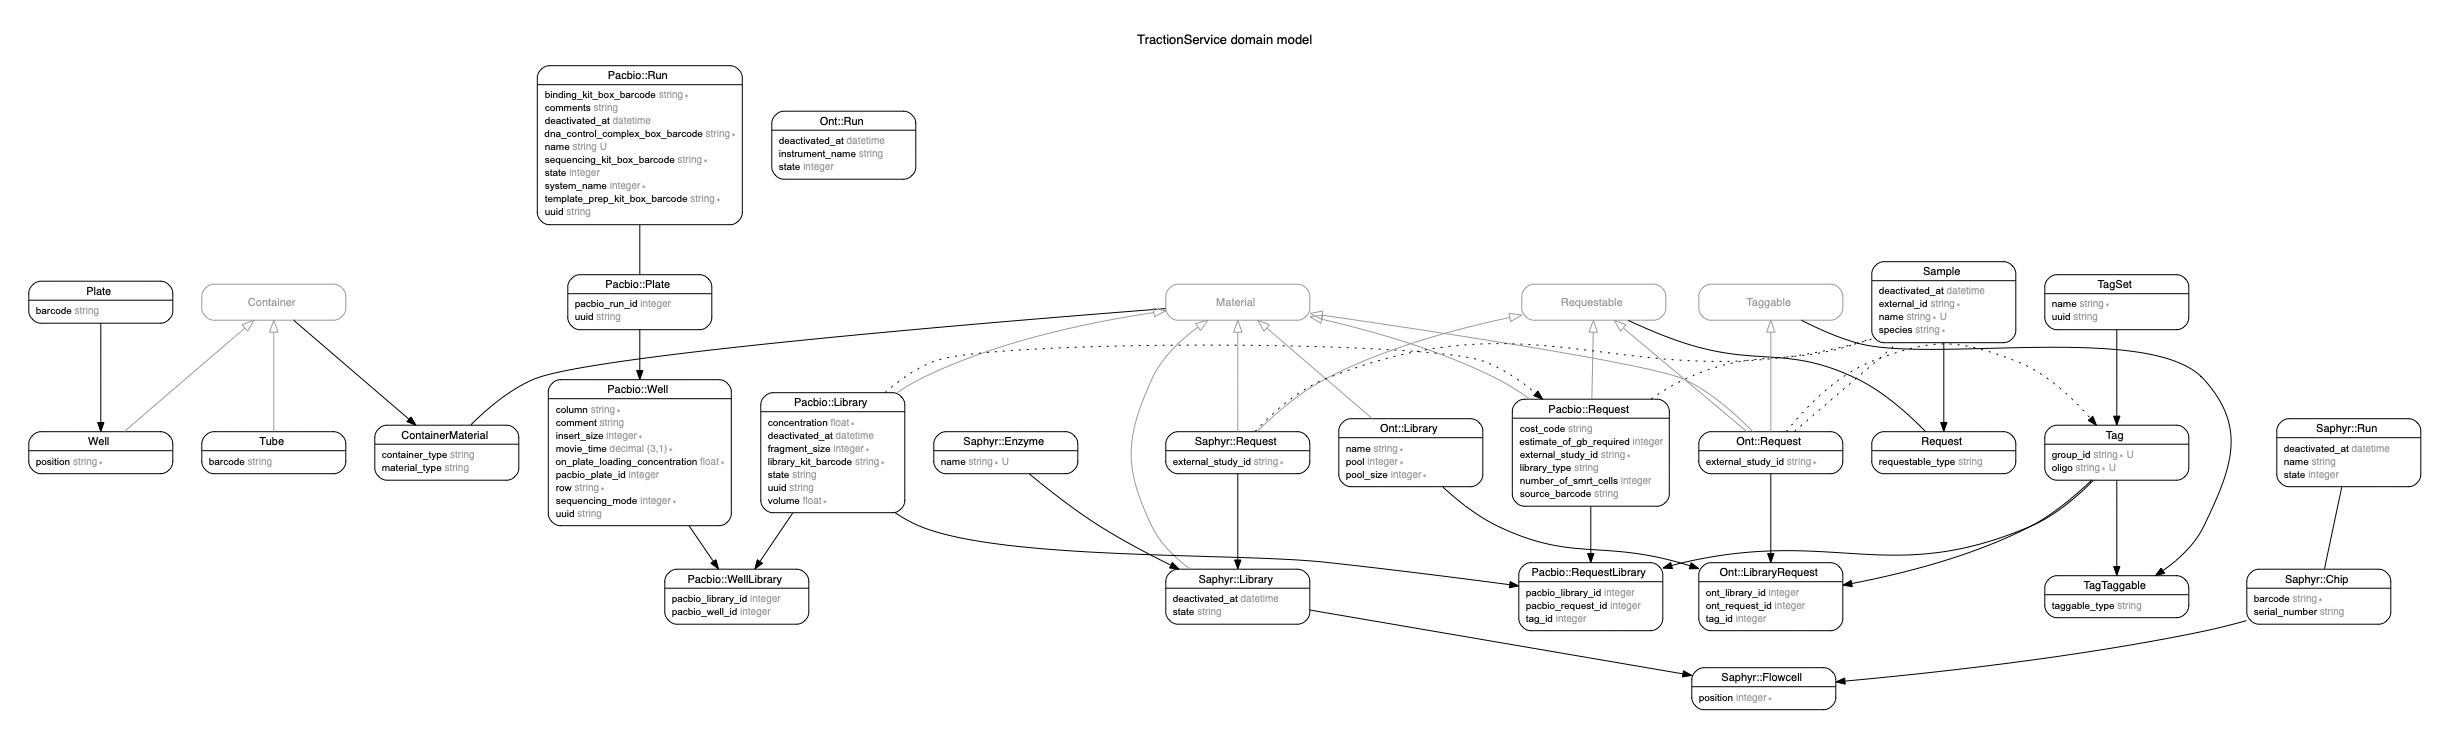
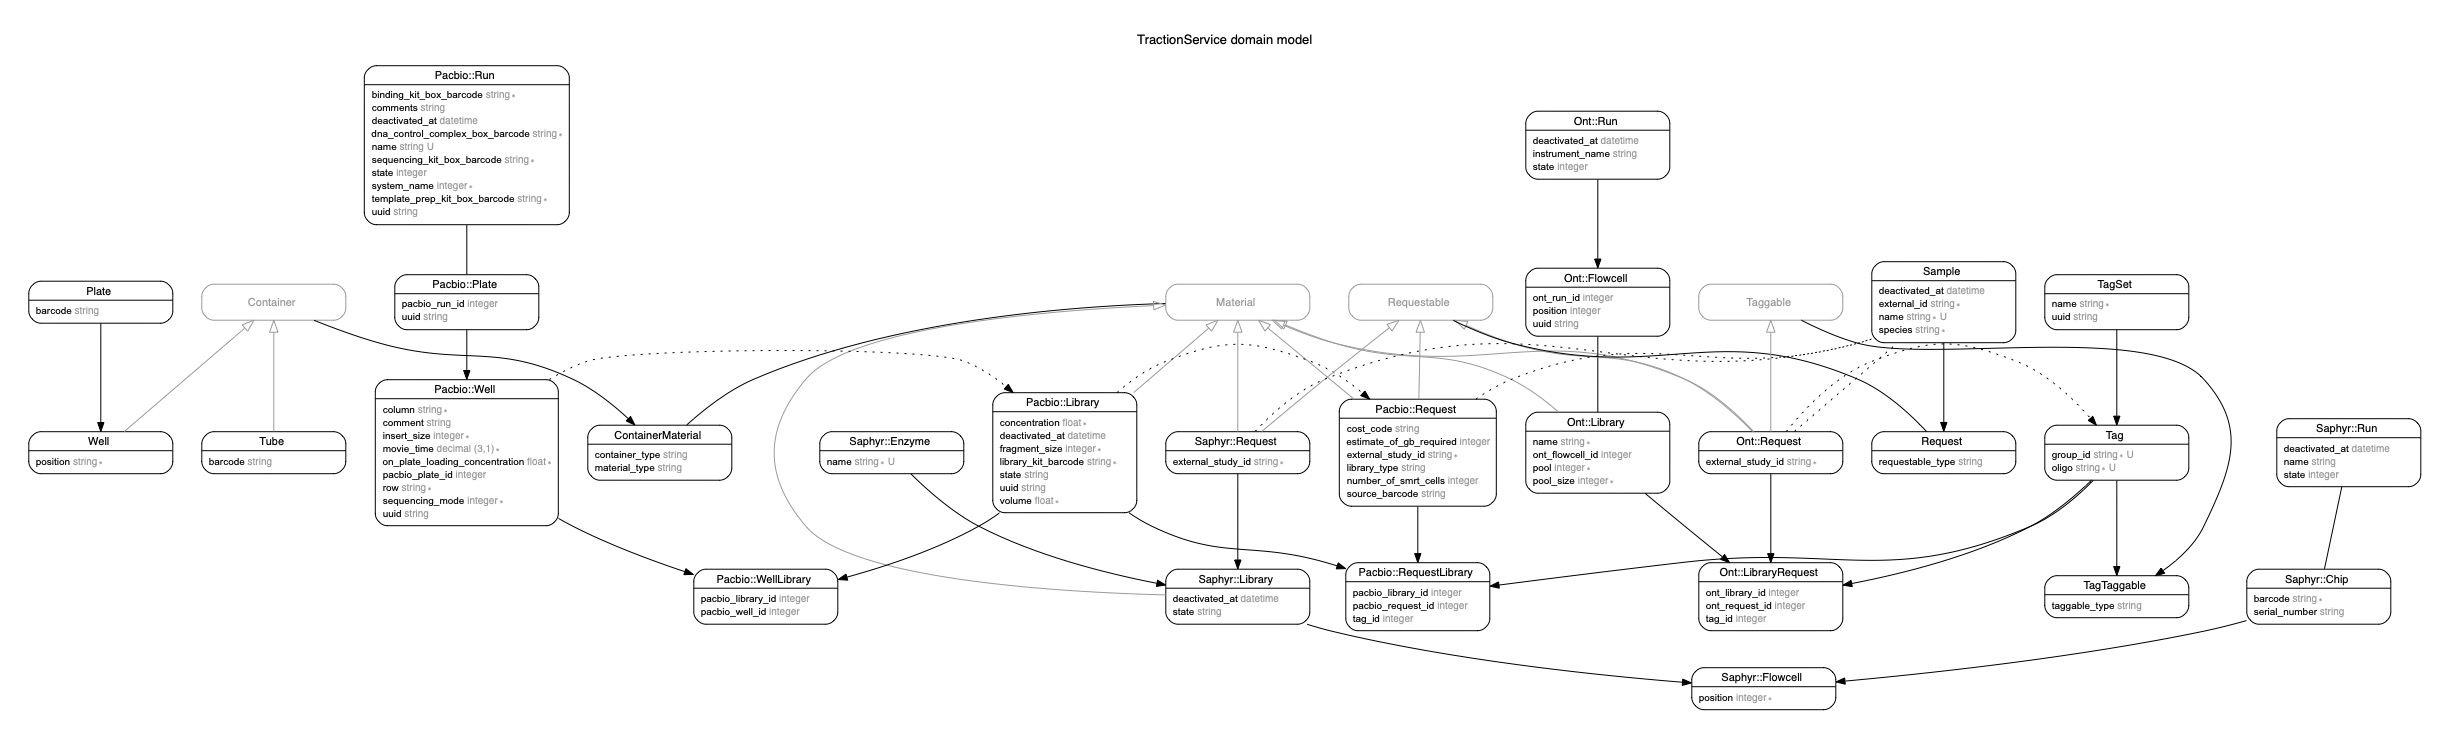
Add Ont::Flowcell

diff --git a/db/schema.rb b/db/schema.rb
@@ -10,7 +10,7 @@
 #
 # It's strongly recommended that you check this file into your version control system.
 
-ActiveRecord::Schema.define(version: 2020_05_06_141138) do
+ActiveRecord::Schema.define(version: 2020_05_07_071910) do
 
   create_table "container_materials", force: :cascade do |t|
     t.string "container_type"
@@ -23,12 +23,23 @@ ActiveRecord::Schema.define(version: 2020_05_06_141138) do
     t.index ["material_type", "material_id"], name: "index_container_materials_on_material_type_and_material_id"
   end
 
+  create_table "ont_flowcells", force: :cascade do |t|
+    t.integer "position"
+    t.string "uuid"
+    t.integer "ont_run_id"
+    t.datetime "created_at", precision: 6, null: false
+    t.datetime "updated_at", precision: 6, null: false
+    t.index ["ont_run_id"], name: "index_ont_flowcells_on_ont_run_id"
+  end
+
   create_table "ont_libraries", force: :cascade do |t|
     t.string "name"
     t.integer "pool"
     t.integer "pool_size"
     t.datetime "created_at", precision: 6, null: false
     t.datetime "updated_at", precision: 6, null: false
+    t.integer "ont_flowcell_id"
+    t.index ["ont_flowcell_id"], name: "index_ont_libraries_on_ont_flowcell_id"
   end
 
   create_table "ont_library_requests", force: :cascade do |t|

diff --git a/app/models/ont/flowcell.rb b/app/models/ont/flowcell.rb
@@ -1,0 +1,13 @@
+# frozen_string_literal: true
+
+module Ont
+  # Ont::Flowcell
+  class Flowcell < ApplicationRecord
+    include Uuidable
+
+    belongs_to :run, foreign_key: :ont_run_id, inverse_of: :flowcells, dependent: :destroy
+    has_one :library, foreign_key: :ont_flowcell_id, inverse_of: :flowcell, dependent: :nullify
+
+    validates :position, presence: true
+  end
+end

diff --git a/app/models/ont/library.rb b/app/models/ont/library.rb
@@ -8,6 +8,8 @@ module Ont
     has_many :library_requests, foreign_key: :ont_library_id,
                                 inverse_of: :library, dependent: :destroy
 
+belongs_to :flowcell, foreign_key: :ont_flowcell_id, inverse_of: :library, optional: true, dependent: :destroy
+
     validates :name, :pool, :pool_size, presence: true
 
     def self.library_name(plate_barcode, pool)

diff --git a/db/migrate/20200507071910_create_ont_flowcells.rb b/db/migrate/20200507071910_create_ont_flowcells.rb
@@ -1,0 +1,14 @@
+class CreateOntFlowcells < ActiveRecord::Migration[6.0]
+  def change
+    create_table :ont_flowcells do |t|
+      t.integer :position
+      t.string :uuid
+      t.belongs_to :ont_run, index: true
+      t.timestamps
+    end
+
+    change_table :ont_libraries do |t|
+      t.belongs_to :ont_flowcell, null: true, index: true
+    end
+  end
+end

diff --git a/app/models/ont/run.rb b/app/models/ont/run.rb
@@ -5,6 +5,8 @@ module Ont
   class Run < ApplicationRecord
     include Stateful
 
+    has_many :flowcells, foreign_key: :ont_run_id, inverse_of: :run, dependent: :destroy
+
     scope :active, -> { where(deactivated_at: nil) }
 
     def active?
